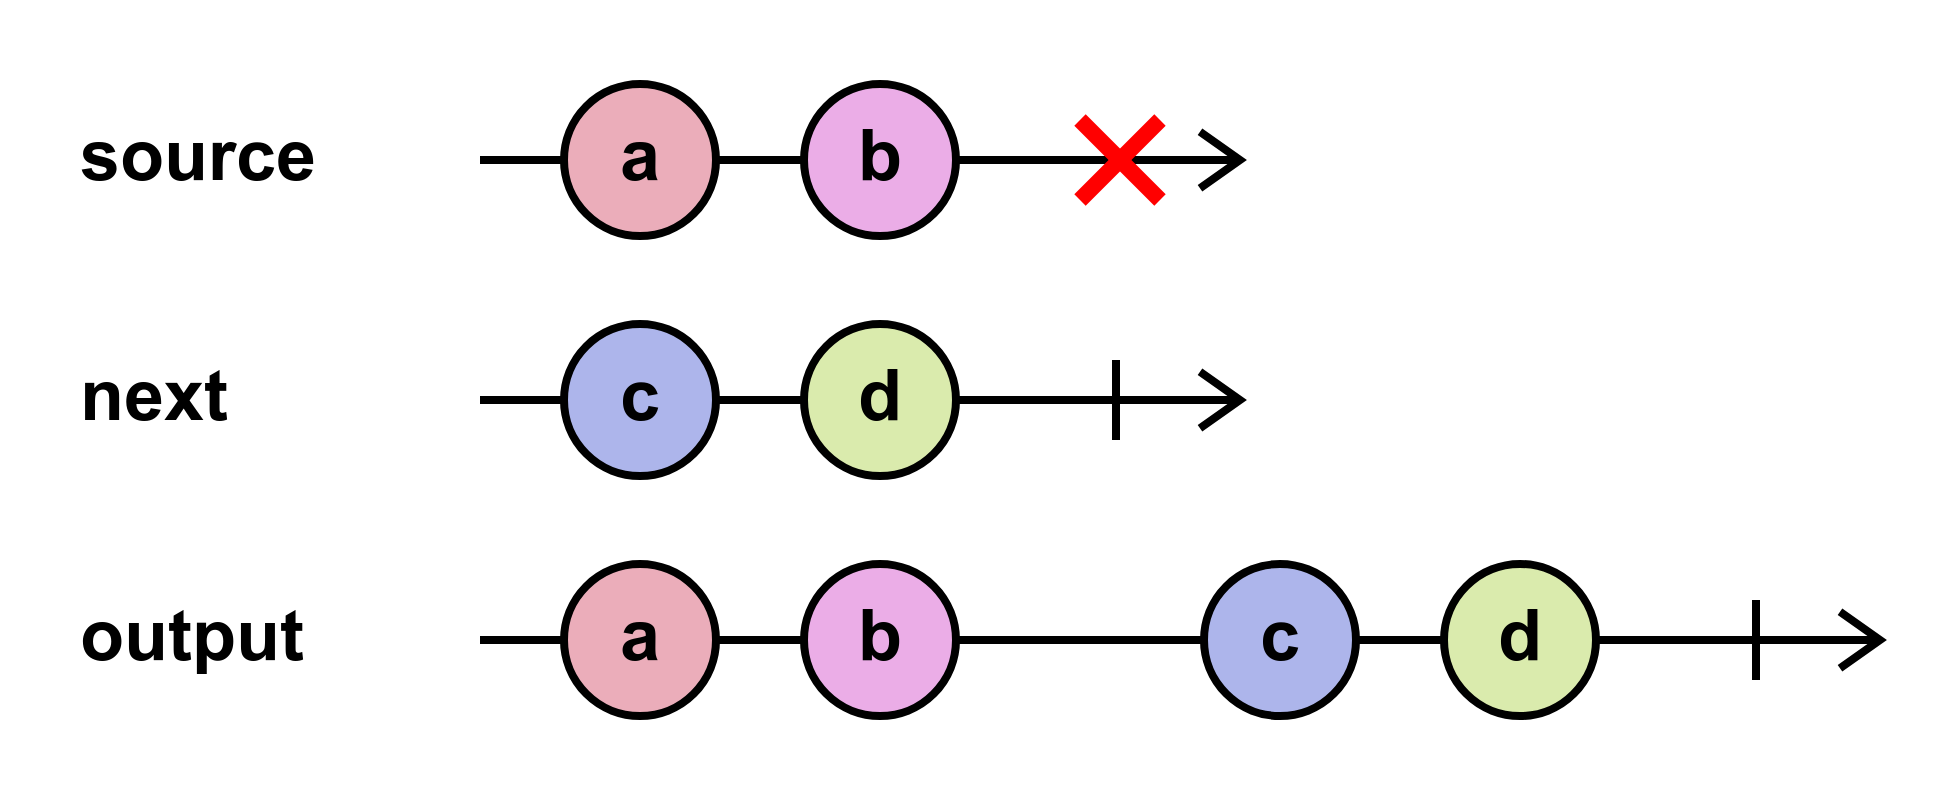
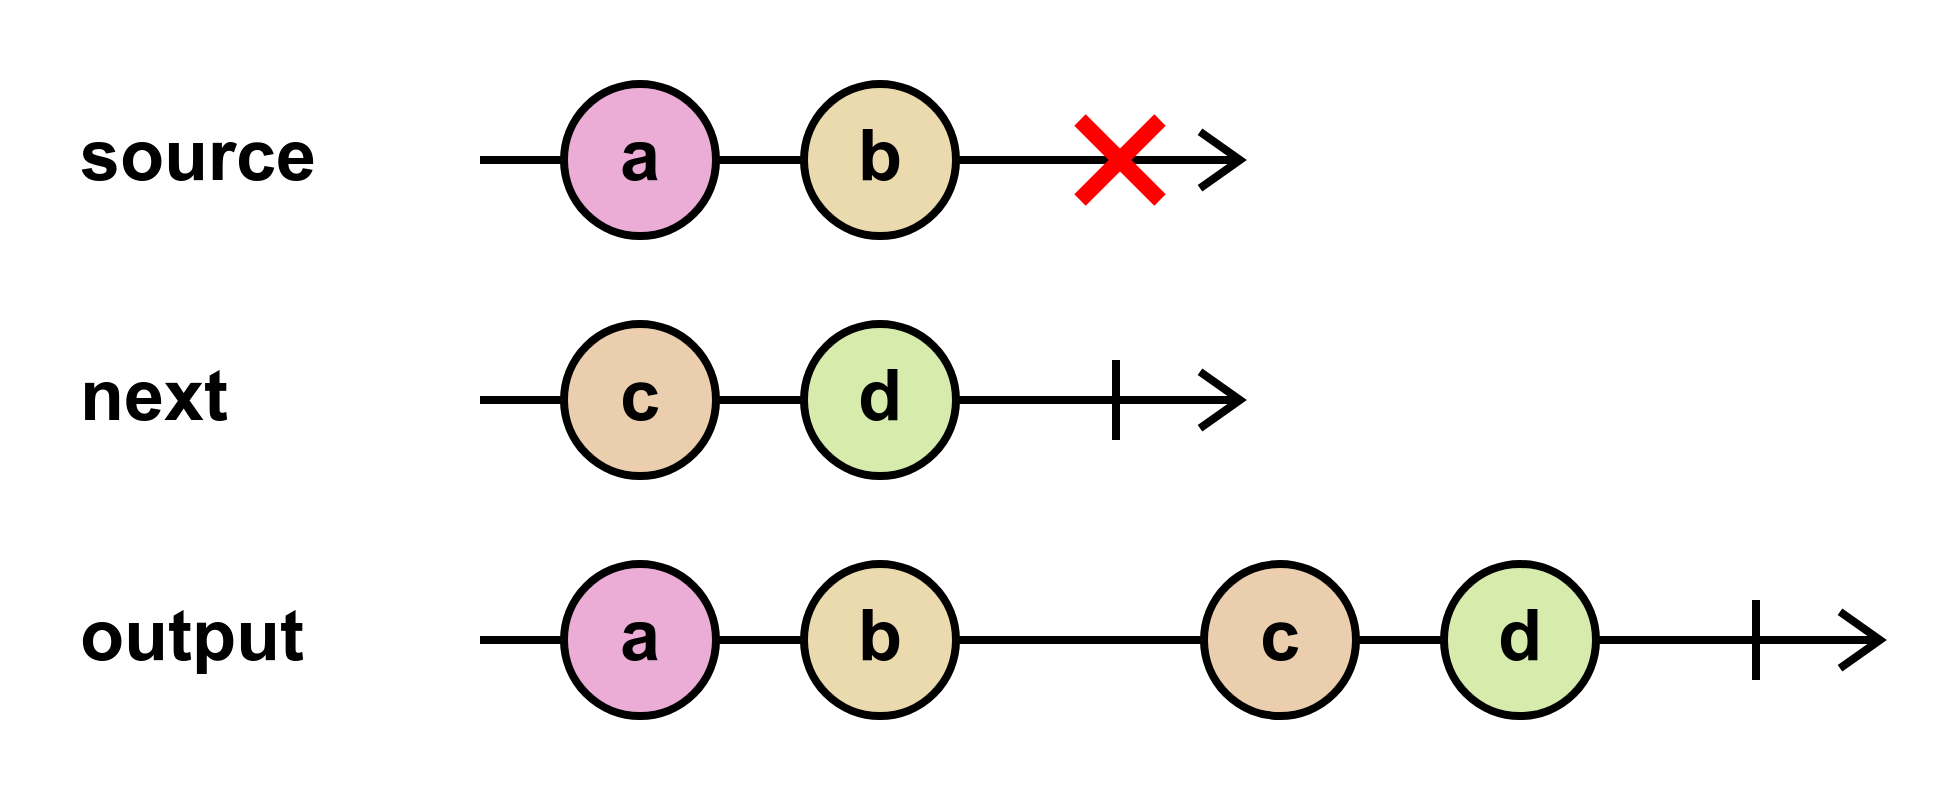
Drop Buffer dependency

diff --git a/lib/draw/notification/scalar.js b/lib/draw/notification/scalar.js
@@ -1,6 +1,6 @@
-const sha1 = require('simple-sha1')
 const { createElement } = require('../../util/create-element')
 const { mergeStyles } = require('../../util/merge-styles')
+const { stringToColor } = require('../../util/string-to-color')
 const { translate } = require('../../util/transform')
 
 const COLOR_TO_MODE = {
@@ -10,14 +10,6 @@ const COLOR_TO_MODE = {
 }
 
 const supports = () => true
-
-const getColor = (str, mode) => {
-  const hash = Buffer.from(sha1.sync(str), 'hex')
-  const hue = (hash.readUInt16LE() / (1 << 16)) * 360
-  const saturation = 60
-  const lightness = mode === 'dark' ? 20 : 80
-  return `hsl(${hue}, ${saturation}%, ${lightness}%)`
-}
 
 const draw = ({ document, styles }, notification) => {
   const s = mergeStyles('event_', styles, notification)
@@ -30,7 +22,7 @@ const draw = ({ document, styles }, notification) => {
   const fillColorMode = COLOR_TO_MODE[s.fill_color]
   const finalFillColor =
     fillColorMode != null
-      ? getColor(notification.value, fillColorMode)
+      ? stringToColor(notification.value, fillColorMode)
       : s.fill_color
 
   $group.appendChild(

diff --git a/src/app.js b/src/app.js
@@ -1,5 +1,4 @@
 import '@babel/polyfill'
-import { Buffer } from 'buffer/'
 import { drawMarbleDiagram, parseMarbleDiagramSpec } from '../lib/'
 
 const EXAMPLE = `# An example application of the concatAll operator.
@@ -23,8 +22,6 @@ input
 output
 -----a------b---------c-d------e--f-|
 `
-
-window.Buffer = Buffer
 
 const resultContainer = document.querySelector('.result')
 const inputField = document.querySelector('.input textarea')

diff --git a/lib/util/string-to-color.js b/lib/util/string-to-color.js
@@ -1,0 +1,15 @@
+const sha1 = require('simple-sha1')
+const { hexToDec } = require('./hex-to-dec')
+
+const stringToColor = (str, mode) => {
+  const hashHex = sha1.sync(str)
+  const hash = hexToDec(hashHex.substr(4, 4))
+  const hue = (hash / (1 << 16)) * 360
+  const saturation = 60
+  const lightness = mode === 'dark' ? 20 : 80
+  return `hsl(${hue}, ${saturation}%, ${lightness}%)`
+}
+
+module.exports = {
+  stringToColor
+}

diff --git a/lib/util/hex-to-dec.js b/lib/util/hex-to-dec.js
@@ -1,0 +1,13 @@
+const hexToDec = hex => {
+  let dec = 0
+  hex = hex.toUpperCase()
+  for (let i = 0; i < hex.length; ++i) {
+    const c = hex.charCodeAt(i)
+    dec = dec * 16 + (c >= 65 ? c - 55 : c - 48)
+  }
+  return dec
+}
+
+module.exports = {
+  hexToDec
+}
